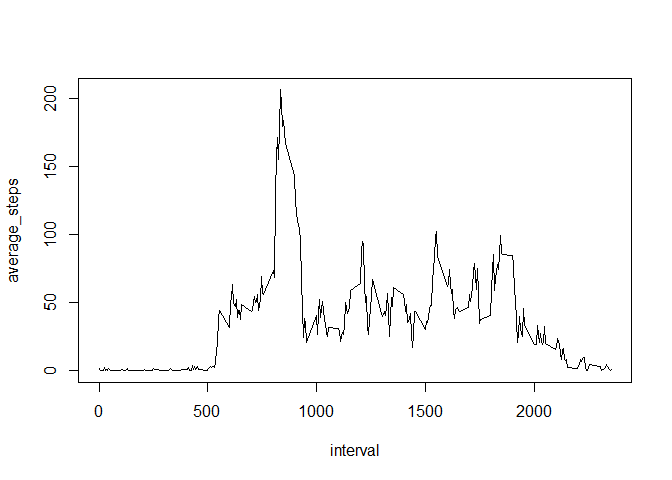
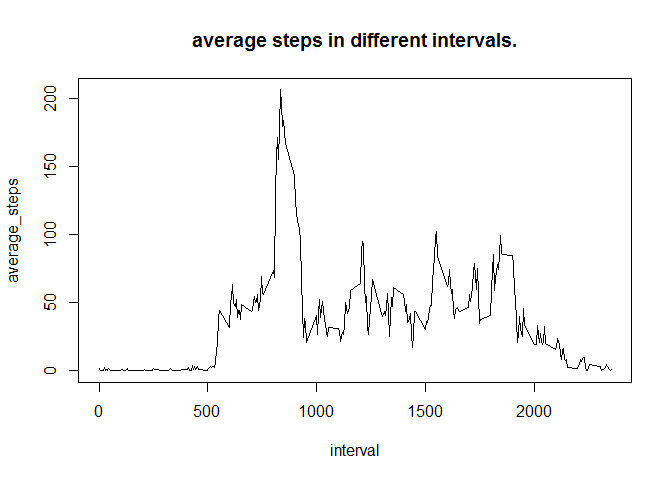
saving changes for bar plot...

Changed region(s): [[0.2812, 0.0625, 0.7812, 0.125]]

diff --git a/RepData_ActivityMonitoring.html b/RepData_ActivityMonitoring.html
@@ -202,9 +202,9 @@ hr {
 
 <body>
 <pre><code class="r"># load the libraries
-  library(data.table)
-  library(dplyr)
-  library(ggplot2)
+  suppressPackageStartupMessages(library(data.table))
+  suppressPackageStartupMessages(library(dplyr))
+  suppressPackageStartupMessages(library(ggplot2))
 </code></pre>
 
 <h3>Loading and pre-processing the activity monitoring date.</h3>
@@ -225,10 +225,14 @@ hr {
   colnames(aggByDate) &lt;- c(&quot;date&quot;, &quot;totalSteps&quot;)
 
   # plot a bar plot not sure why questions refers to a histogram
-  barplot(aggByDate$totalSteps, names.arg = aggByDate$date, ylab = &quot;total steps&quot;)
+   g &lt;- ggplot(data = aggByDate, aes(x = date, y = totalSteps))
+  g &lt;- g + geom_bar(stat = &quot;identity&quot;)
+  g &lt;- g + labs(x = &quot;date&quot;, y = &quot;total steps&quot;)
+  g &lt;- g + ggtitle(&quot;total number of steps per day&quot;)
+  print(g)
 </code></pre>
 
[2 lines of base64/hex data omitted]
 
 <pre><code class="r">  # mean
   meanSteps &lt;- mean(aggByDate$totalSteps)
@@ -238,7 +242,7 @@ hr {
   medianSteps &lt;- median(orderedData$totalSteps)
 </code></pre>
 
-<p>The mean number of steps taken per day are 1.0766189 &times; 10<sup>4</sup>.
+<p>The mean number of steps taken per day are 1.0766189 &times; 10<sup>4</sup>.<br/>
 The median number of steps are 10765.</p>
 
 <h3>Q2 : What is the average daily activity pattern?</h3>
@@ -246,17 +250,101 @@ The median number of steps are 10765.</p>
 <pre><code class="r">  aggByInterval &lt;- aggregate(completeData$steps, by = list(completeData$interval), FUN = mean)
   colnames(aggByInterval) &lt;- c(&quot;interval&quot;, &quot;averageSteps&quot;)
 
-  plot(aggByInterval$interval, aggByInterval$averageSteps, type = &quot;l&quot;, xlab = &quot;interval&quot;, ylab = &quot;average_steps&quot;)
+  plot(aggByInterval$interval, aggByInterval$averageSteps, type = &quot;l&quot;, 
+       xlab = &quot;interval&quot;, ylab = &quot;average_steps&quot;,
+       main = &quot;average steps in different intervals.&quot;)
 </code></pre>
 
[2 lines of base64/hex data omitted]
 
 <pre><code class="r">  # maximum average  number of steps
   maxSteps &lt;- max(aggByInterval$averageSteps)
   maxStepInterval &lt;- aggByInterval[ aggByInterval$averageSteps == maxSteps, &quot;interval&quot;]
 </code></pre>
 
-<p>The interval 835 has the highest average steps across all days.</p>
+<p>The interval 835 has the highest average steps ( 206.1698113) across all days.</p>
+
+<h3>Imputing missing values</h3>
+
+<pre><code class="r"># total number of missing values in the dataset.
+  missingValues = activityData[is.na(activityData$steps),]
+  missingValuesCount = nrow(missingValues)
+</code></pre>
+
+<p>The total number of missing values are 2304.</p>
+
+<pre><code class="r"># filling missing value in any interval by getting the average steps for that interval across all days.
+# creating a data.table for faster access.
+  avgStepsByInterval &lt;- data.table(aggByInterval)
+  setkey(avgStepsByInterval, interval)
+
+  # copy the data into a new data set.
+  filledActData &lt;- activityData
+
+  # impute function
+  extrapolatingFunction &lt;- function(actData) {
+    dataSteps &lt;- as.numeric(actData[&quot;steps&quot;])
+    dataInterval &lt;- as.numeric(actData[&quot;interval&quot;])
+    if (is.na(dataSteps)) {
+      avgStepsByInterval[interval == dataInterval]$averageSteps
+    }
+    else {
+      dataSteps
+    }
+  }
+
+  imputedSteps &lt;- apply(filledActData, 1, extrapolatingFunction)
+
+  # filling the empty values in the new data set.
+  filledActData$steps &lt;- imputedSteps
+</code></pre>
+
+<pre><code class="r">  # plot for imputedDataSet
+  filledAggByDate &lt;- aggregate(filledActData$steps, by = list(filledActData$date), FUN = sum)
+  colnames(filledAggByDate) &lt;- c(&quot;date&quot;, &quot;totalSteps&quot;)
+
+  g &lt;- ggplot(data = filledAggByDate, aes(x = date, y = totalSteps))
+  g &lt;- g + geom_bar(stat = &quot;identity&quot;)
+  g &lt;- g + labs(x = &quot;date&quot;, y = &quot;total steps&quot;)
+  g &lt;- g + ggtitle(&quot;imputed data - total number of steps per day&quot;)
+  print(g)
+</code></pre>
+
[1 lines of base64/hex data omitted]
+
+<pre><code class="r">  # finding mean
+  filledMeanSteps &lt;- mean(filledAggByDate$totalSteps)
+
+  # finding median (ordering tthe data for finding the median)
+  filledMedianSteps &lt;- median(filledAggByDate[order(filledAggByDate$totalSteps), &quot;totalSteps&quot;])
+</code></pre>
+
+<p>The mean for filled data set is 1.0766189 &times; 10<sup>4</sup>.<br/>
+The median for filled data set is 1.0766189 &times; 10<sup>4</sup>.<br/>
+so we see that the mean is same as before, but the median has changed for the filled data set.</p>
+
+<h3>Are there differences in activity patterns between weekdays and weekends?</h3>
+
+<pre><code class="r">  # get the weekday and weekend as a column in the dataset.
+  isWeekend &lt;- grepl(&quot;^(Saturday|Sunday)$&quot;, weekdays(filledActData$date))
+  # factor variable indicating weekday and weekend.
+  isWeekend &lt;- as.factor(isWeekend)
+  levels(isWeekend) &lt;- c(&quot;weekday&quot;, &quot;weekend&quot;)
+
+  filledActData &lt;- mutate(filledActData, isWeekend)
+
+  aggByIntervalAndWeekend &lt;- aggregate(steps ~ interval + isWeekend, data = filledActData, mean)
+
+
+  g &lt;- ggplot(aggByIntervalAndWeekend, aes(x = interval, y = steps))
+  g &lt;- g + geom_line()
+  g &lt;- g + facet_grid(isWeekend ~ .)
+  g &lt;- g + labs(x = &quot;interval&quot;, y = &quot;total steps&quot;)
+  g &lt;- g + ggtitle(&quot;average steps across different intervals/weekend/weekdays&quot;)
+  print(g)
+</code></pre>
+
[1 lines of base64/hex data omitted]
 
 </body>
 

diff --git a/RepData_ActivityMonitoring.md b/RepData_ActivityMonitoring.md
@@ -4,17 +4,17 @@ output:
   html_document:
     keep_md: yes
 ---
-
+  
 
 
 ```r
 # load the libraries
-  library(data.table)
-  library(dplyr)
-  library(ggplot2)
+  suppressPackageStartupMessages(library(data.table))
+  suppressPackageStartupMessages(library(dplyr))
+  suppressPackageStartupMessages(library(ggplot2))
 ```
 
-
+  
 ### Loading and pre-processing the activity monitoring date.
 
 
@@ -25,7 +25,7 @@ output:
   # converting date from factors to date
   activityData$date <- as.Date(activityData$date, "%Y-%m-%d")
 ```
-
+  
 ### plot for total number of steps per day
 
 ```r
@@ -36,7 +36,11 @@ output:
   colnames(aggByDate) <- c("date", "totalSteps")
   
   # plot a bar plot not sure why questions refers to a histogram
-  barplot(aggByDate$totalSteps, names.arg = aggByDate$date, ylab = "total steps")
+   g <- ggplot(data = aggByDate, aes(x = date, y = totalSteps))
+  g <- g + geom_bar(stat = "identity")
+  g <- g + labs(x = "date", y = "total steps")
+  g <- g + ggtitle("total number of steps per day")
+  print(g)
 ```
 
 ![plot of chunk unnamed-chunk-3](figure/unnamed-chunk-3-1.png) 
@@ -49,16 +53,19 @@ output:
   orderedData <- aggByDate[order(aggByDate$totalSteps),]
   medianSteps <- median(orderedData$totalSteps)
 ```
-The mean number of steps taken per day are 1.0766189 &times; 10<sup>4</sup>.
+The mean number of steps taken per day are 1.0766189 &times; 10<sup>4</sup>.  
 The median number of steps are 10765.
 
+  
 ### Q2 : What is the average daily activity pattern?
 
 ```r
   aggByInterval <- aggregate(completeData$steps, by = list(completeData$interval), FUN = mean)
   colnames(aggByInterval) <- c("interval", "averageSteps")
   
-  plot(aggByInterval$interval, aggByInterval$averageSteps, type = "l", xlab = "interval", ylab = "average_steps")
+  plot(aggByInterval$interval, aggByInterval$averageSteps, type = "l", 
+       xlab = "interval", ylab = "average_steps",
+       main = "average steps in different intervals.")
 ```
 
 ![plot of chunk unnamed-chunk-4](figure/unnamed-chunk-4-1.png) 
@@ -69,4 +76,95 @@ The median number of steps are 10765.
   maxStepInterval <- aggByInterval[ aggByInterval$averageSteps == maxSteps, "interval"]
 ```
 
-The interval 835 has the highest average steps across all days.
+The interval 835 has the highest average steps ( 206.1698113) across all days.
+
+  
+### Imputing missing values
+
+```r
+# total number of missing values in the dataset.
+  missingValues = activityData[is.na(activityData$steps),]
+  missingValuesCount = nrow(missingValues)
+```
+The total number of missing values are 2304.
+
+
+```r
+# filling missing value in any interval by getting the average steps for that interval across all days.
+# creating a data.table for faster access.
+  avgStepsByInterval <- data.table(aggByInterval)
+  setkey(avgStepsByInterval, interval)
+  
+  # copy the data into a new data set.
+  filledActData <- activityData
+  
+  # impute function
+  extrapolatingFunction <- function(actData) {
+    dataSteps <- as.numeric(actData["steps"])
+    dataInterval <- as.numeric(actData["interval"])
+    if (is.na(dataSteps)) {
+      avgStepsByInterval[interval == dataInterval]$averageSteps
+    }
+    else {
+      dataSteps
+    }
+  }
+
+  imputedSteps <- apply(filledActData, 1, extrapolatingFunction)
+
+  # filling the empty values in the new data set.
+  filledActData$steps <- imputedSteps
+```
+
+
+```r
+  # plot for imputedDataSet
+  filledAggByDate <- aggregate(filledActData$steps, by = list(filledActData$date), FUN = sum)
+  colnames(filledAggByDate) <- c("date", "totalSteps")
+  
+  g <- ggplot(data = filledAggByDate, aes(x = date, y = totalSteps))
+  g <- g + geom_bar(stat = "identity")
+  g <- g + labs(x = "date", y = "total steps")
+  g <- g + ggtitle("imputed data - total number of steps per day")
+  print(g)
+```
+
+![plot of chunk unnamed-chunk-7](figure/unnamed-chunk-7-1.png) 
+
+```r
+  # finding mean
+  filledMeanSteps <- mean(filledAggByDate$totalSteps)
+  
+  # finding median (ordering tthe data for finding the median)
+  filledMedianSteps <- median(filledAggByDate[order(filledAggByDate$totalSteps), "totalSteps"])
+```
+The mean for filled data set is 1.0766189 &times; 10<sup>4</sup>.  
+The median for filled data set is 1.0766189 &times; 10<sup>4</sup>.  
+so we see that the mean is same as before, but the median has changed for the filled data set.
+
+  
+### Are there differences in activity patterns between weekdays and weekends?
+
+
+```r
+  # get the weekday and weekend as a column in the dataset.
+  isWeekend <- grepl("^(Saturday|Sunday)$", weekdays(filledActData$date))
+  # factor variable indicating weekday and weekend.
+  isWeekend <- as.factor(isWeekend)
+  levels(isWeekend) <- c("weekday", "weekend")
+
+  filledActData <- mutate(filledActData, isWeekend)
+
+  aggByIntervalAndWeekend <- aggregate(steps ~ interval + isWeekend, data = filledActData, mean)
+
+
+  g <- ggplot(aggByIntervalAndWeekend, aes(x = interval, y = steps))
+  g <- g + geom_line()
+  g <- g + facet_grid(isWeekend ~ .)
+  g <- g + labs(x = "interval", y = "total steps")
+  g <- g + ggtitle("average steps across different intervals/weekend/weekdays")
+  print(g)
+```
+
+![plot of chunk unnamed-chunk-8](figure/unnamed-chunk-8-1.png) 
+
